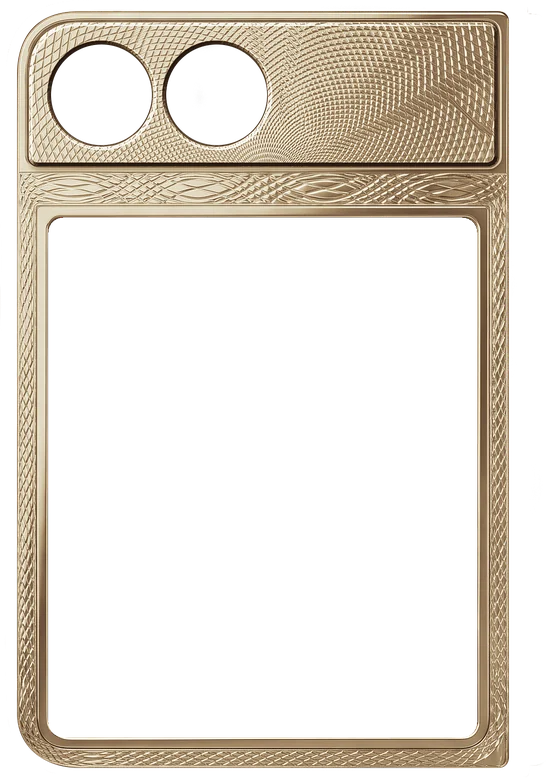
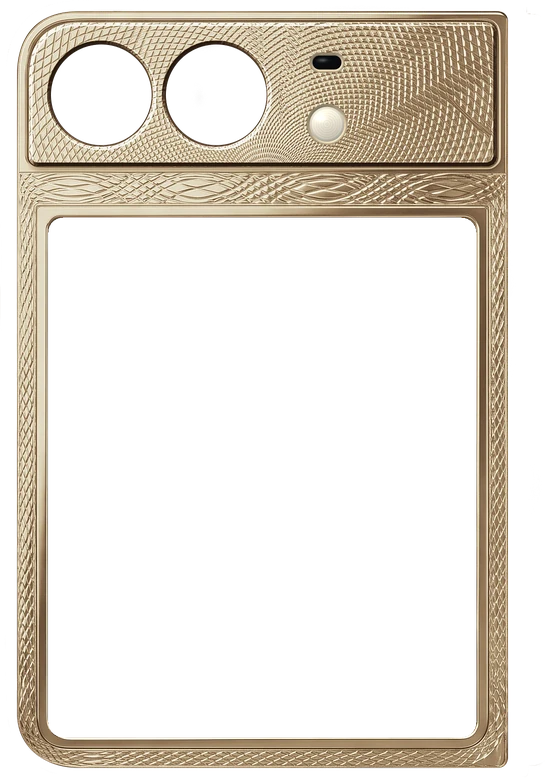
Frame: sensor window and flash next to the cameras (positioned per Caviar iPhone Duo catalog), all metals

Changed region(s): [[0.4367, 0.0617, 0.6862, 0.2159], [0.5615, 0.0617, 0.655, 0.0925], [0.2807, 0.0925, 0.3119, 0.1542]]

diff --git a/zodiac-duo.js b/zodiac-duo.js
@@ -24,7 +24,7 @@
 
   var SCRIPT_SRC = (document.currentScript && document.currentScript.src) || "";
   var ASSETS = CFG.assets || SCRIPT_SRC.replace(/[^/]*$/, "") + "assets";
-  var AV = "?v=m28"; // версия ассетов (медальоны v2) — сброс кэша слоёв и свотчей
+  var AV = "?v=m29"; // версия ассетов (медальоны v2) — сброс кэша слоёв и свотчей
   var M = window.ZD_MANIFEST;
   // Медальон в конструкторе чуть меньше слоя PSD (масштаб от центра); общий манифест не трогаем — лендинг видит исходный размер
   var MEDAL_SCALE = 0.9;

diff --git a/index.html b/index.html
@@ -249,7 +249,7 @@
     };
   </script>
   <script src="assets/manifest.js?v=20261011r"></script>
-  <script src="zodiac-duo.js?v=20261015ps3"></script>
+  <script src="zodiac-duo.js?v=20261015fl"></script>
   <script src="landing/landing.js?v=20"></script>
   <script type="importmap">
     { "imports": {

diff --git a/demo.html b/demo.html
@@ -40,6 +40,6 @@
     };
   </script>
   <script src="assets/manifest.js?v=20261011r"></script>
-  <script src="zodiac-duo.js?v=20261015ps3"></script>
+  <script src="zodiac-duo.js?v=20261015fl"></script>
 </body>
 </html>
